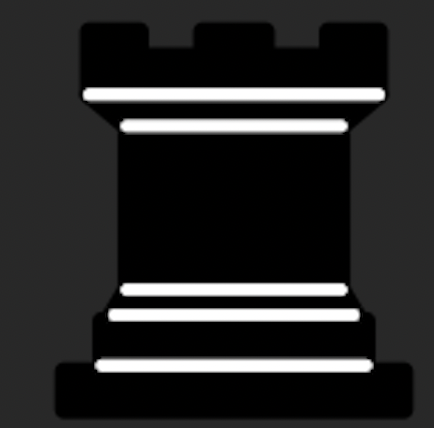
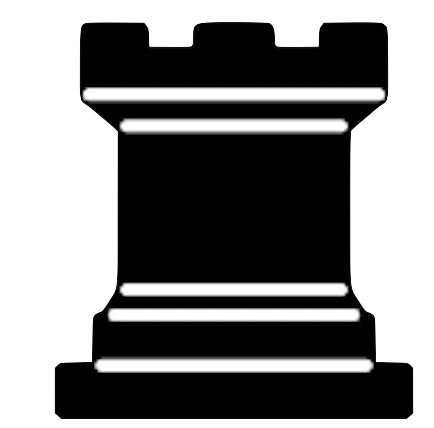
Cropped images and added nicer colors to the board.
Removed backgroud color from the piece images.
Changed the colors of the board to better see the pieces.

diff --git a/main.go b/main.go
@@ -212,17 +212,23 @@ func drawSquare(xStart, yStart int, img *ebiten.Image, color color.Color) {
 }
 
 func (g *Game) drawGroundImage(screen, ground *ebiten.Image) {
-	col := color.White
+	var col color.RGBA
 	op := &ebiten.DrawImageOptions{}
 	for _, point := range gamelogic.Board {
 		if point.Occupied == nil {
 			if (point.Letter+point.Number)%2 == 0 {
-				col = color.Black
+				col = color.RGBA{R: 103, G: 51, B: 20, A: 127}
 			} else {
-				col = color.White
+				col = color.RGBA{R: 249, G: 172, B: 113, A: 127}
 			}
 			drawSquare(point.Letter*squareSize, point.Number*squareSize, ground, col)
 		} else {
+			if (point.Letter+point.Number)%2 == 0 {
+				col = color.RGBA{R: 103, G: 51, B: 20, A: 127}
+			} else {
+				col = color.RGBA{R: 249, G: 172, B: 113, A: 127}
+			}
+			drawSquare(point.Letter*squareSize, point.Number*squareSize, ground, col)
 			op.GeoM.Translate(float64(point.Letter*squareSize), float64(point.Number*squareSize))
 			ground.DrawImage(point.Occupied.Img, op)
 			op.GeoM.Reset()
@@ -289,7 +295,6 @@ func (g *Game) Layout(outsideWidth, outsideHeight int) (int, int) {
 func addImg() {
 	for i := range gamelogic.Board {
 		if gamelogic.Board[i].Occupied != nil {
-			fmt.Printf("adding image of kind: %s\n", gamelogic.Board[i].Occupied.Kind)
 			switch gamelogic.Board[i].Occupied.Kind {
 			case "whitePawn":
 				gamelogic.Board[i].Occupied.Img = WhitePawn
